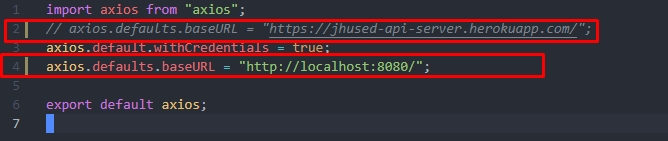
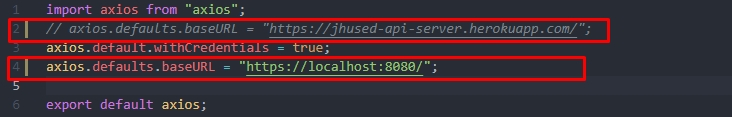
use https for local backendurl in frontend

diff --git a/docs/iteration4/LocalDebug.md b/docs/iteration4/LocalDebug.md
@@ -34,7 +34,7 @@
 1. Open a browser
 2. Visit [http://localhost:3000](http://localhost:3000)
 3. You should see the homepage, click the Login at up right corner
-4. You should be first redirected to [http://localhost:8080/jhu/login], then you should see a third party SSO like this:
+4. You should be first redirected to [https://localhost:8080/jhu/login](https://localhost:8080/jhu/login), then you should see a third party SSO like this:
 ![](../assets/LocalDebug/SamlTestLogin.jpg) 
 5. Then use user name and password provided in the red rectangle to login.
 6. Then it will request you to accept some dummy permission, just click accept at the bottom.
